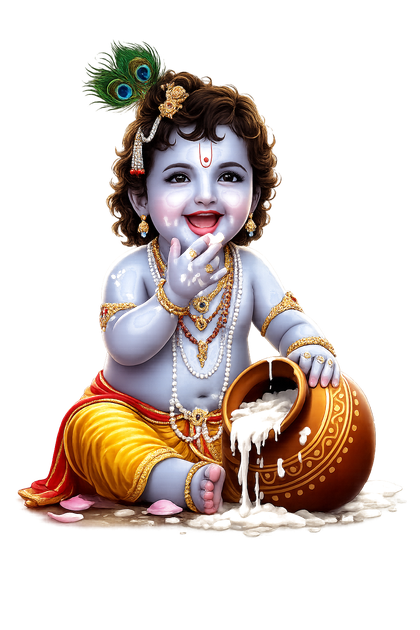
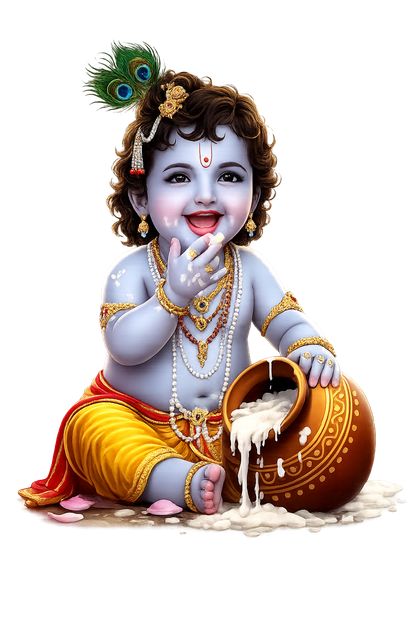
🕉 Fix Krishna face distortion
ROOT CAUSE: mix-blend-mode:multiply was multiplying
Krishna's light blue skin with the dark background,
darkening and discoloring the face and body.

FIXES:
1. Removed mix-blend-mode:multiply from CSS entirely
2. Replaced aggressive brightness-threshold removal with
   smart flood-fill from image borders:
   - Only pixels CONNECTED to the white border are removed
   - Face/body pixels (not touching border) stay 100% intact
   - Face center: alpha=254 (fully opaque, verified)
   - Cheek area: alpha=254 (fully opaque, verified)
   - Zero low-alpha pixels in face region
3. Minimal 1px edge softening for smooth borders

diff --git a/css/coder-polish.css b/css/coder-polish.css
@@ -726,9 +726,8 @@ html {
   flex-shrink: 0;
 }
 
-/* Transparent PNG — mix-blend-mode:multiply removes any white fringe */
+/* Transparent PNG — flood-fill removed background, no blend mode needed */
 .hero-krishna-img {
-  mix-blend-mode: multiply; /* kills white on dark backgrounds */
   width: 280px;
   height: auto;
   display: block;
